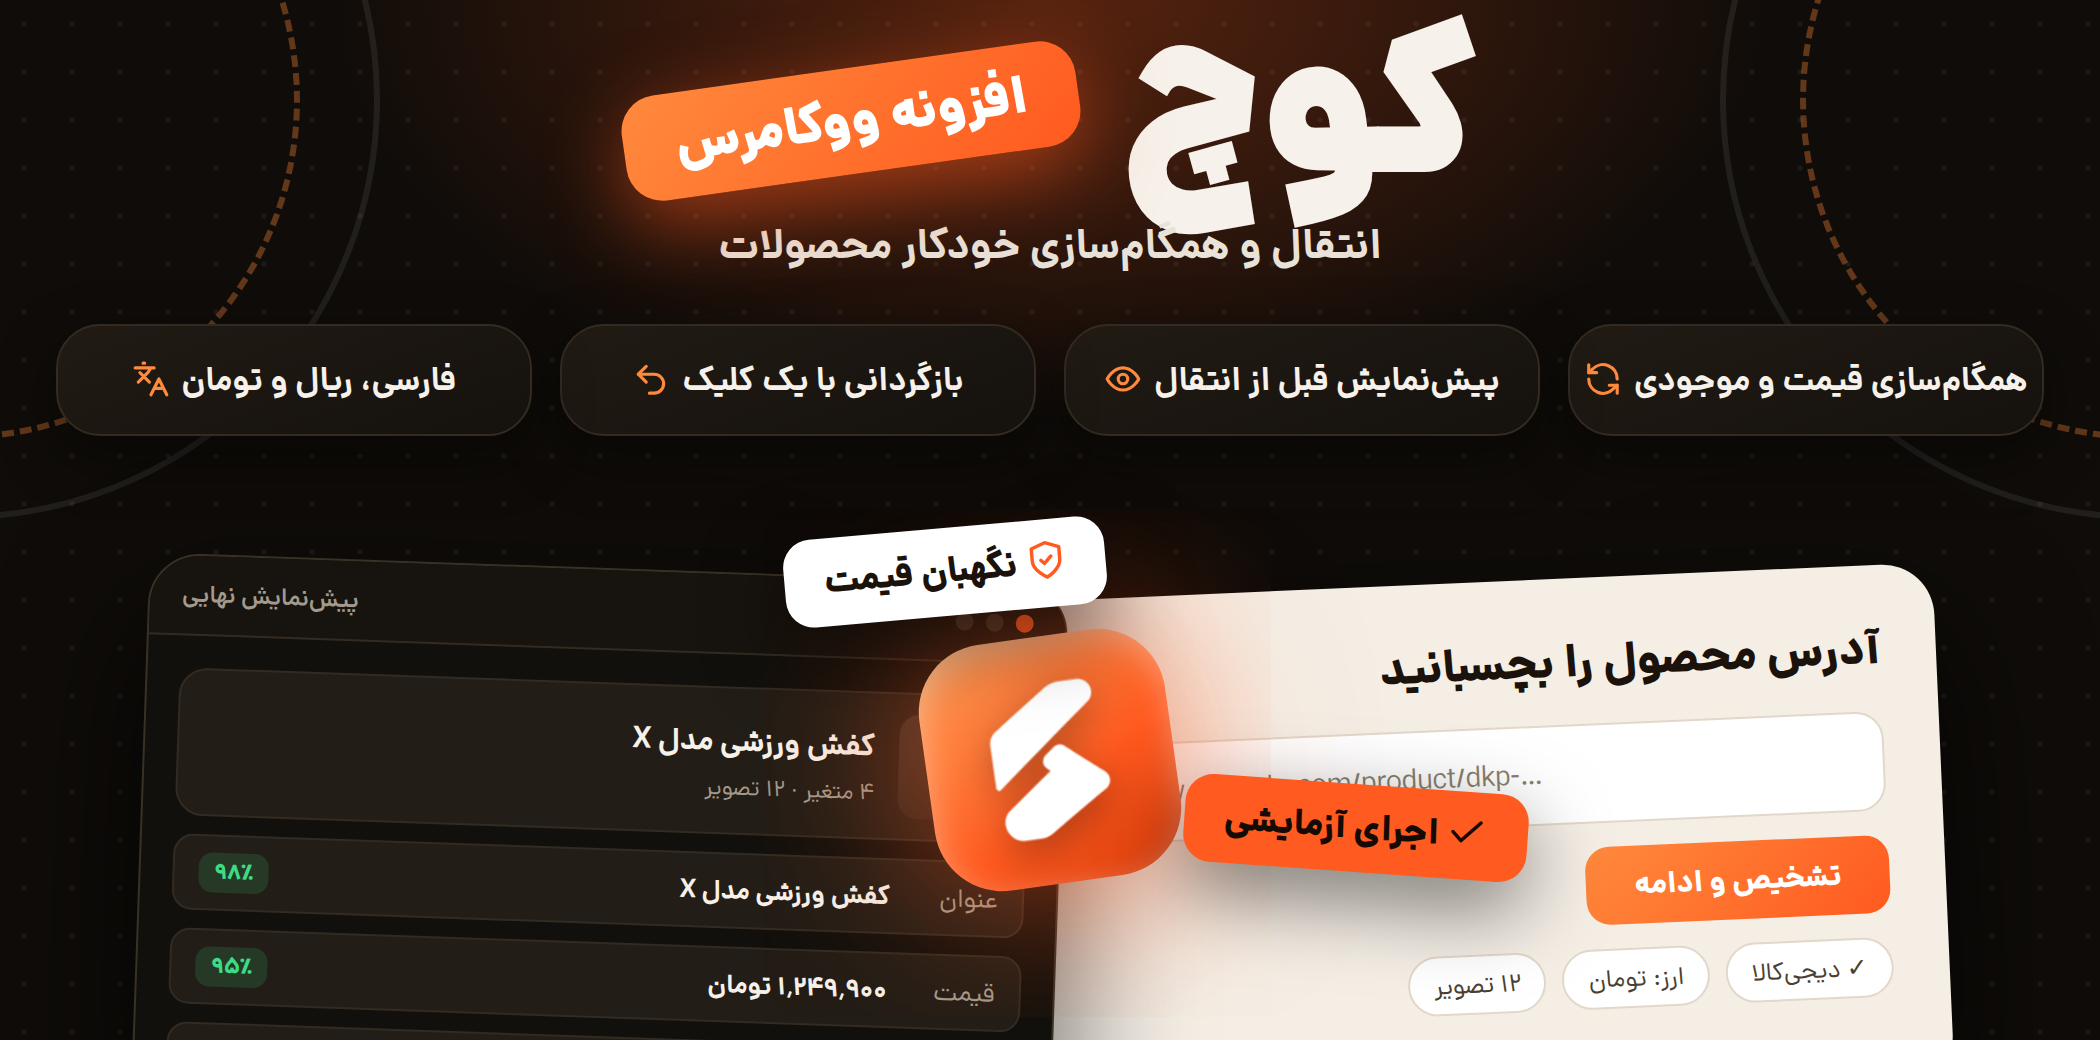
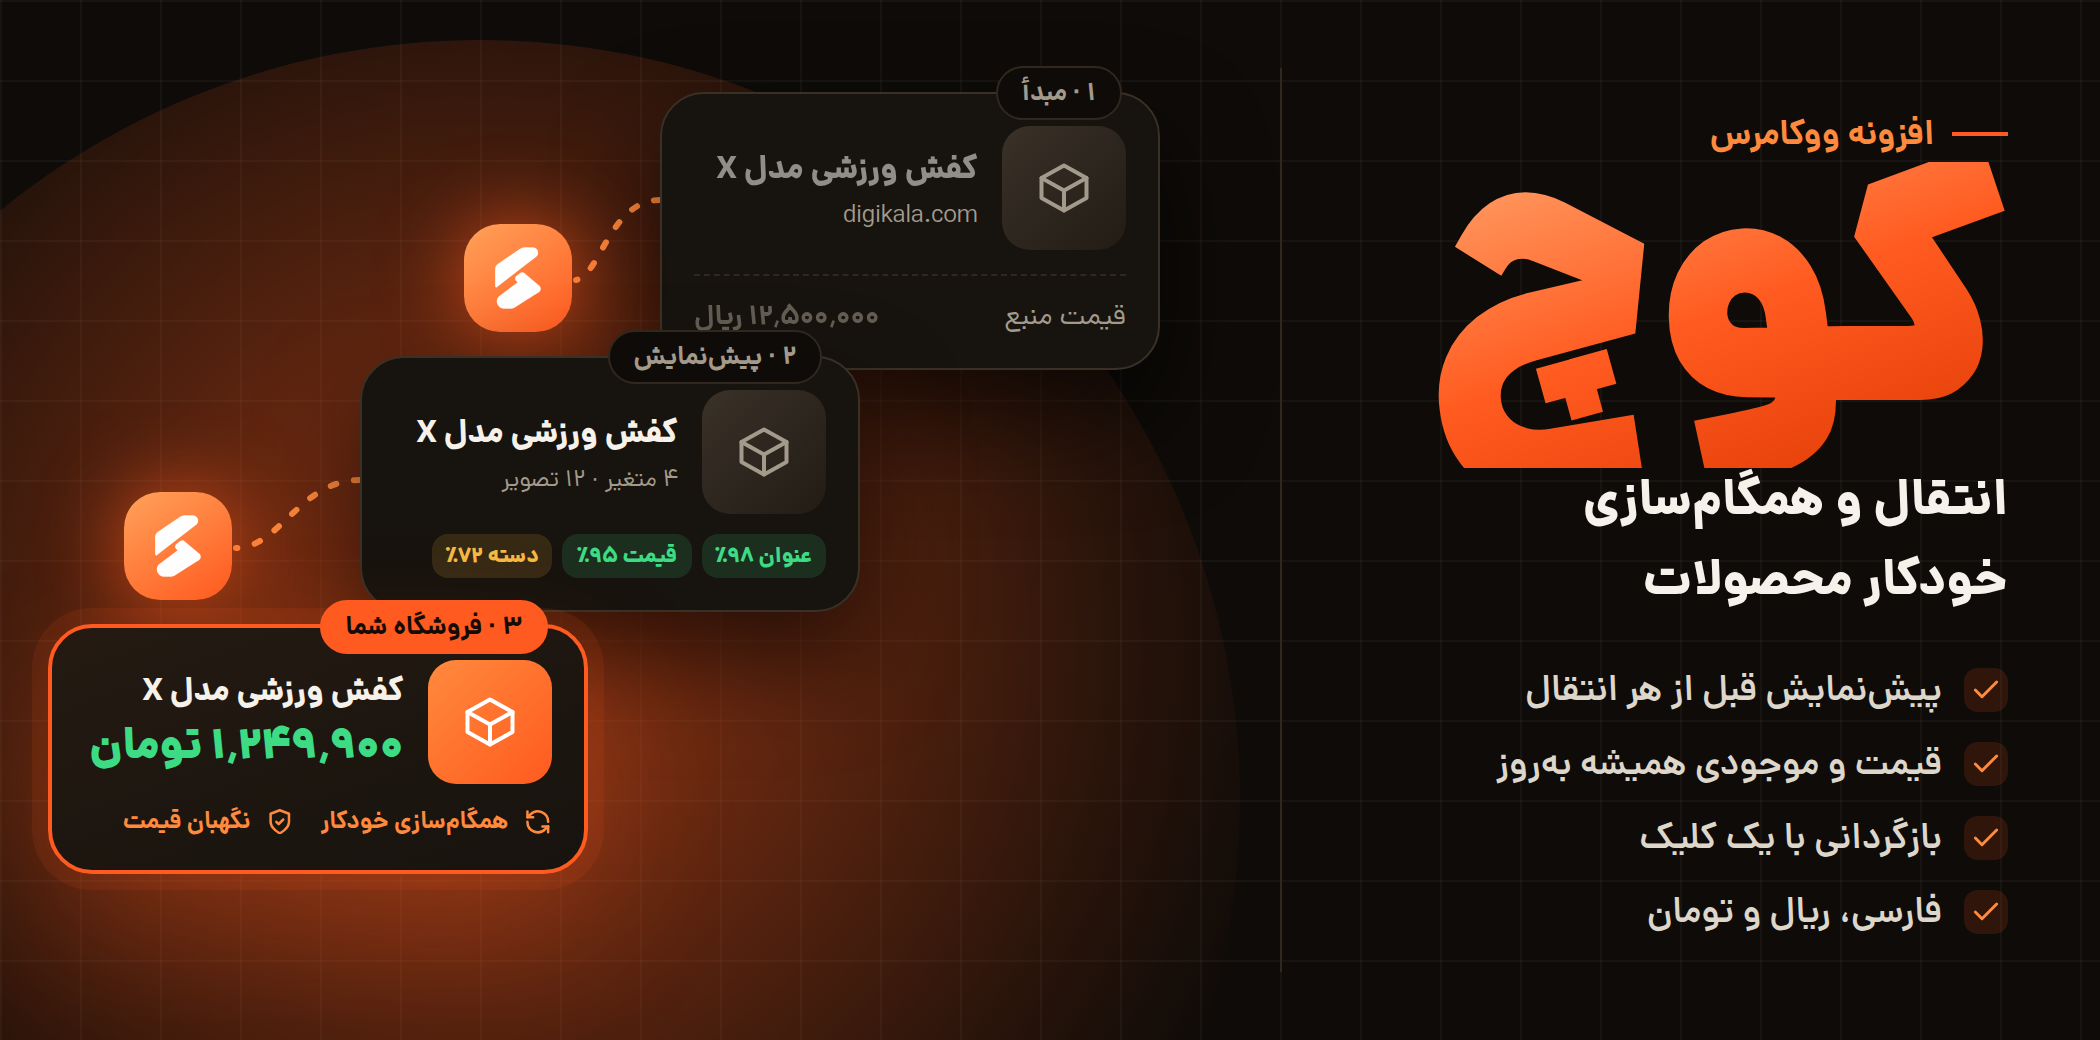
Redesign Kooch thumbnail with a distinct migration-steps composition
Claude-Session: https://claude.ai/code/session_01HjGiyHhZHcoV6ExRpRRqKD

diff --git a/kooch-showcase/thumbnail.html b/kooch-showcase/thumbnail.html
@@ -1,75 +1,56 @@
 <!doctype html><html lang="fa" dir="rtl"><head><meta charset="utf-8"><title>کوچ | تامنیل</title>
 <style>
 @font-face{font-family:Dana;src:url(DanaVF.ttf);font-weight:100 1000}
-:root{--o:#ff5a1f;--o2:#ff8a3d;--bg:#0f0c09;--card:#191510;--card2:#221d16;--line:#332b21;--tx:#f6f1ea;--mu:#a39a8c;--ok:#3ddc84}
+:root{--o:#ff5a1f;--o2:#ff8a3d;--bg:#0e0b08;--line:#30281f;--tx:#f6f1ea;--mu:#a39a8c;--ok:#3ddc84}
 *{box-sizing:border-box;margin:0;padding:0}
 body{background:#000;font-family:Dana,Tahoma,sans-serif;color:var(--tx)}
-.i{width:1.15em;height:1.15em;vertical-align:-.22em;fill:none;stroke:currentColor;stroke-width:2;stroke-linecap:round;stroke-linejoin:round}
+.i{width:1.15em;height:1.15em;vertical-align:-.22em;fill:none;stroke:currentColor;stroke-width:2.2;stroke-linecap:round;stroke-linejoin:round}
 .t{width:1050px;height:520px;position:relative;overflow:hidden;background:
- radial-gradient(520px 300px at 50% 0,rgba(255,90,31,.30),transparent 70%),
- radial-gradient(rgba(255,255,255,.06) 1.2px,transparent 1.4px) 0 0/24px 24px,var(--bg)}
-/* side route arcs */
-.arc{position:absolute;top:-120px;width:340px;height:340px;border-radius:50%;border:3px dashed rgba(255,138,61,.35)}
-.arc.l{left:-190px}.arc.r{right:-190px}
-.arc.l2{left:-230px;top:-160px;width:420px;height:420px;border-color:rgba(255,255,255,.08);border-style:solid}
-.arc.r2{right:-230px;top:-160px;width:420px;height:420px;border-color:rgba(255,255,255,.08);border-style:solid}
-.head{position:absolute;top:14px;left:0;right:0;text-align:center}
-.title{display:inline-flex;align-items:center;gap:20px;direction:rtl}
-.title h1{font-size:92px;font-weight:950;line-height:1;color:var(--tx);letter-spacing:-2px}
-.badge{background:linear-gradient(135deg,var(--o2),var(--o));color:#fff;font-weight:900;font-size:26px;padding:8px 26px;border-radius:18px;transform:rotate(-8deg);box-shadow:0 12px 40px rgba(255,90,31,.55)}
-.sub{margin-top:2px;font-size:21px;font-weight:700;color:#e8e2d9}
-.pills{position:absolute;top:162px;left:28px;right:28px;display:flex;gap:14px;direction:rtl}
-.pill{flex:1;background:linear-gradient(160deg,#211b14,#15110d);border:1px solid var(--line);border-radius:22px;padding:15px 6px;text-align:center;white-space:nowrap;font-size:16.5px;font-weight:700;position:relative;box-shadow:0 10px 30px rgba(0,0,0,.4)}
-
-.pill .i{color:var(--o2);margin-inline-start:6px}
-/* panels */
-.p{position:absolute;bottom:-34px;border-radius:26px;overflow:hidden;box-shadow:0 30px 70px rgba(0,0,0,.65)}
-.light{right:78px;width:500px;height:262px;background:#f4eee5;color:#1a120b;transform:rotate(-2.5deg);padding:26px 28px}
-.light h3{font-size:23px;font-weight:800;margin-bottom:14px}
-.in{background:#fff;border:1px solid #e2d8c9;border-radius:14px;padding:14px 16px;color:#8a7f70;font-size:14px;direction:ltr;text-align:left}
-.cta{display:inline-block;margin-top:12px;background:linear-gradient(135deg,var(--o2),var(--o));color:#fff;font-weight:800;padding:9px 24px;border-radius:12px;font-size:15px}
-.det{display:flex;gap:8px;margin-top:12px;direction:rtl}
-.det span{background:#fff;border:1px solid #e2d8c9;border-radius:99px;padding:5px 12px;font-size:12.5px;color:#4a3f31}
-.dark{left:70px;width:460px;height:270px;background:#12100c;border:1px solid #3a3126;transform:rotate(2deg)}
-.dark .bar{display:flex;gap:6px;align-items:center;padding:11px 16px;background:#17130e;border-bottom:1px solid var(--line);font-size:12px;color:var(--mu)}
-.dark .bar i{width:9px;height:9px;border-radius:50%;background:#3a3126}.dark .bar i:first-child{background:var(--o)}.dark .bar b{margin-inline-start:auto;font-weight:600}
-.dark .b{padding:16px;display:flex;flex-direction:column;gap:9px}
-.prod{display:flex;gap:12px;align-items:center;background:var(--card2);border:1px solid var(--line);border-radius:14px;padding:10px 12px}
-.prod .im{width:52px;height:52px;border-radius:10px;background:linear-gradient(135deg,#3a3128,#221c15);display:grid;place-items:center;color:var(--mu)}
-.prod .im .i{width:26px;height:26px}
-.fld{display:flex;align-items:center;gap:10px;background:var(--card2);border:1px solid var(--line);border-radius:10px;padding:8px 12px;font-size:13px}
-.fld .l{color:var(--mu);width:44px}.fld .v{flex:1;font-weight:700}
-.cf{font-size:11px;font-weight:800;padding:2px 8px;border-radius:7px;background:rgba(61,220,132,.15);color:var(--ok)}
-/* center icon */
-.core{position:absolute;left:50%;bottom:78px;width:124px;height:124px;border-radius:34px;background:linear-gradient(145deg,#ffa25a,var(--o) 60%,#d93a08);display:grid;place-items:center;box-shadow:0 0 90px rgba(255,90,31,.7),inset 0 4px 16px rgba(255,255,255,.35);z-index:5;transform:translateX(-50%) rotate(-8deg)}
-.core img{width:80px;filter:brightness(0) invert(1) drop-shadow(0 6px 10px rgba(0,0,0,.3))}
-.chip{position:absolute;background:#fff;color:#1a120b;font-weight:800;font-size:18px;padding:9px 20px;border-radius:14px;box-shadow:0 14px 40px rgba(0,0,0,.5);z-index:6}
-.chip .i{color:var(--o)}
-.c1{left:392px;bottom:212px;transform:rotate(-5deg)}
-.c2{left:592px;bottom:84px;transform:rotate(4deg);background:var(--o);color:#150b04}.c2 .i{color:#150b04}
-.arrow{position:absolute;bottom:150px;height:0;border-top:3px dashed rgba(255,138,61,.9);z-index:4}
+ linear-gradient(rgba(255,255,255,.035) 1px,transparent 1px) 0 0/40px 40px,
+ linear-gradient(90deg,rgba(255,255,255,.035) 1px,transparent 1px) 0 0/40px 40px,var(--bg)}
+.sun{position:absolute;left:-140px;bottom:-260px;width:760px;height:760px;border-radius:50%;background:radial-gradient(circle at 50% 40%,rgba(255,90,31,.55),rgba(255,90,31,.10) 55%,transparent 70%)}
+.side{position:absolute;right:0;top:0;bottom:0;width:410px;padding:52px 46px 0 0;border-right:0}
+.side::before{content:"";position:absolute;left:0;top:34px;bottom:34px;border-left:1px solid var(--line)}
+.lab{display:inline-flex;align-items:center;gap:9px;font-size:17px;font-weight:700;color:var(--o2);letter-spacing:.3px}
+.lab::before{content:"";width:28px;height:2px;background:var(--o)}
+h1{font-size:150px;font-weight:950;line-height:1.02;margin-top:2px;background:linear-gradient(160deg,#ffb27a,var(--o) 55%,#e03a05);-webkit-background-clip:text;color:transparent;letter-spacing:-3px}
+.sub{font-size:25px;font-weight:800;margin-top:-4px;line-height:1.6}
+ul{list-style:none;margin-top:22px;display:flex;flex-direction:column;gap:11px}
+li{font-size:18px;font-weight:600;color:#ddd6cb;display:flex;align-items:center;gap:11px}
+li .i{color:var(--o2);width:22px;height:22px;background:rgba(255,90,31,.14);border-radius:7px;padding:3px}
+/* route */
+.card{position:absolute;width:250px;border-radius:22px;padding:16px;background:#17130e;border:1px solid #3a3126;box-shadow:0 24px 50px rgba(0,0,0,.6)}
+.step{position:absolute;top:-14px;right:18px;background:#0e0b08;border:1px solid var(--line);color:var(--mu);font-size:13px;font-weight:700;padding:3px 12px;border-radius:99px}
+.row{display:flex;gap:12px;align-items:center}
+.im{width:62px;height:62px;border-radius:14px;flex:none;display:grid;place-items:center;background:linear-gradient(135deg,#3a3128,#221c15);color:var(--mu)}
+.im .i{width:30px;height:30px;stroke-width:1.6}
+.nm{font-size:16px;font-weight:800}.mt{font-size:12px;color:var(--mu);margin-top:3px}
+.pr{margin-top:12px;display:flex;justify-content:space-between;align-items:center;font-size:14px;color:var(--mu);border-top:1px dashed var(--line);padding-top:10px}
+.a{right:392px;top:44px;left:auto}
+.a{left:auto}
+.cA{left:330px;top:46px}.cB{left:180px;top:178px}.cC{left:24px;top:312px;width:270px;background:linear-gradient(160deg,#241a12,#17130e);border:2px solid var(--o);box-shadow:0 0 0 8px rgba(255,90,31,.10),0 30px 70px rgba(255,90,31,.25)}
+.cA .nm,.cA .pr b{opacity:.55}
+.cf{display:flex;gap:5px;margin-top:10px;white-space:nowrap}
+.cf span{font-size:11px;font-weight:800;padding:3px 7px;border-radius:8px;background:rgba(61,220,132,.14);color:var(--ok)}
+.cf span.m{background:rgba(245,185,66,.14);color:#f5b942}
+.price{font-size:22px;font-weight:900;color:var(--ok)}
+.ok{display:flex;align-items:center;gap:8px;margin-top:10px;white-space:nowrap;font-size:12px;font-weight:700;color:var(--o2)}
+svg.route{position:absolute;left:0;top:0;width:640px;height:520px;pointer-events:none}
+.node{position:absolute;width:54px;height:54px;border-radius:18px;background:linear-gradient(145deg,#ffa25a,var(--o));display:grid;place-items:center;box-shadow:0 0 40px rgba(255,90,31,.7)}
+.node img{width:32px;filter:brightness(0) invert(1)}
 </style></head><body><svg width="0" height="0" style="position:absolute" aria-hidden="true"><symbol id="i-link" viewBox="0 0 24 24"><path d="M10 13a5 5 0 0 0 7.5.5l3-3a5 5 0 0 0-7-7l-1.7 1.7"/><path d="M14 11a5 5 0 0 0-7.5-.5l-3 3a5 5 0 0 0 7 7l1.7-1.7"/></symbol><symbol id="i-eye" viewBox="0 0 24 24"><path d="M2 12s3.6-7 10-7 10 7 10 7-3.6 7-10 7S2 12 2 12z"/><circle cx="12" cy="12" r="3"/></symbol><symbol id="i-box" viewBox="0 0 24 24"><path d="M21 8 12 3 3 8v8l9 5 9-5z"/><path d="M3 8l9 5 9-5M12 13v8"/></symbol><symbol id="i-globe" viewBox="0 0 24 24"><circle cx="12" cy="12" r="10"/><path d="M2 12h20M12 2a15 15 0 0 1 0 20M12 2a15 15 0 0 0 0 20"/></symbol><symbol id="i-target" viewBox="0 0 24 24"><circle cx="12" cy="12" r="10"/><circle cx="12" cy="12" r="6"/><circle cx="12" cy="12" r="2"/></symbol><symbol id="i-cog" viewBox="0 0 24 24"><circle cx="12" cy="12" r="3"/><path d="M19.4 15a1.7 1.7 0 0 0 .3 1.8l.1.1a2 2 0 1 1-2.8 2.8l-.1-.1a1.7 1.7 0 0 0-1.8-.3 1.7 1.7 0 0 0-1 1.5V21a2 2 0 1 1-4 0v-.1a1.7 1.7 0 0 0-1.1-1.5 1.7 1.7 0 0 0-1.8.3l-.1.1a2 2 0 1 1-2.8-2.8l.1-.1a1.7 1.7 0 0 0 .3-1.8 1.7 1.7 0 0 0-1.5-1H3a2 2 0 1 1 0-4h.1a1.7 1.7 0 0 0 1.5-1.1 1.7 1.7 0 0 0-.3-1.8l-.1-.1a2 2 0 1 1 2.8-2.8l.1.1a1.7 1.7 0 0 0 1.8.3H9a1.7 1.7 0 0 0 1-1.5V3a2 2 0 1 1 4 0v.1a1.7 1.7 0 0 0 1 1.5 1.7 1.7 0 0 0 1.8-.3l.1-.1a2 2 0 1 1 2.8 2.8l-.1.1a1.7 1.7 0 0 0-.3 1.8V9a1.7 1.7 0 0 0 1.5 1H21a2 2 0 1 1 0 4h-.1a1.7 1.7 0 0 0-1.5 1z"/></symbol><symbol id="i-coins" viewBox="0 0 24 24"><circle cx="8" cy="8" r="6"/><path d="M18.1 10.4A6 6 0 1 1 10.4 18.1M7 6h1v4"/></symbol><symbol id="i-shield" viewBox="0 0 24 24"><path d="M12 22s8-4 8-10V5l-8-3-8 3v7c0 6 8 10 8 10z"/><path d="m9 12 2 2 4-4"/></symbol><symbol id="i-refresh" viewBox="0 0 24 24"><path d="M21 12a9 9 0 0 0-15.5-6.3L3 8"/><path d="M3 3v5h5"/><path d="M3 12a9 9 0 0 0 15.5 6.3L21 16"/><path d="M16 16h5v5"/></symbol><symbol id="i-lock" viewBox="0 0 24 24"><rect x="4" y="11" width="16" height="10" rx="2"/><path d="M8 11V7a4 4 0 0 1 8 0v4"/></symbol><symbol id="i-undo" viewBox="0 0 24 24"><path d="M9 14 4 9l5-5"/><path d="M4 9h10a6 6 0 0 1 0 12h-3"/></symbol><symbol id="i-alert" viewBox="0 0 24 24"><path d="M10.3 3.9 1.8 18a2 2 0 0 0 1.7 3h17a2 2 0 0 0 1.7-3L13.7 3.9a2 2 0 0 0-3.4 0z"/><path d="M12 9v4M12 17h.01"/></symbol><symbol id="i-bell" viewBox="0 0 24 24"><path d="M18 8a6 6 0 0 0-12 0c0 7-3 9-3 9h18s-3-2-3-9"/><path d="M13.7 21a2 2 0 0 1-3.4 0"/></symbol><symbol id="i-mail" viewBox="0 0 24 24"><rect x="2" y="4" width="20" height="16" rx="2"/><path d="m22 7-10 6L2 7"/></symbol><symbol id="i-send" viewBox="0 0 24 24"><path d="m22 2-7 20-4-9-9-4z"/><path d="M22 2 11 13"/></symbol><symbol id="i-chat" viewBox="0 0 24 24"><path d="M21 15a2 2 0 0 1-2 2H7l-4 4V5a2 2 0 0 1 2-2h14a2 2 0 0 1 2 2z"/></symbol><symbol id="i-hook" viewBox="0 0 24 24"><circle cx="12" cy="5" r="3"/><path d="M12 8v5a4 4 0 0 0 8 0M20 13h-3"/><circle cx="5" cy="17" r="3"/><path d="M5 14c0-3 3-6 7-6"/></symbol><symbol id="i-spark" viewBox="0 0 24 24"><path d="M12 3l1.9 5.1L19 10l-5.1 1.9L12 17l-1.9-5.1L5 10l5.1-1.9z"/><path d="M19 15l.7 1.8L21.5 17.5l-1.8.7L19 20l-.7-1.8-1.8-.7 1.8-.7z"/></symbol><symbol id="i-check" viewBox="0 0 24 24"><path d="M20 6 9 17l-5-5"/></symbol><symbol id="i-lang" viewBox="0 0 24 24"><path d="m5 8 6 6M4 14l6-6 2-3M2 5h12M7 2h1M22 22l-5-10-5 10M14 18h6"/></symbol></svg>
 
-<div class="t">
- <div class="arc l2"></div><div class="arc r2"></div><div class="arc l"></div><div class="arc r"></div>
- <div class="head"><div class="title"><h1>کوچ</h1><div class="badge">افزونه ووکامرس</div></div>
- <div class="sub">انتقال و همگامسازی خودکار محصولات</div></div>
- <div class="pills">
-  <div class="pill">همگامسازی قیمت و موجودی<svg class="i"><use href="#i-refresh"/></svg></div>
-  <div class="pill">پیشنمایش قبل از انتقال<svg class="i"><use href="#i-eye"/></svg></div>
-  <div class="pill">بازگردانی با یک کلیک<svg class="i"><use href="#i-undo"/></svg></div>
-  <div class="pill">فارسی، ریال و تومان<svg class="i"><use href="#i-lang"/></svg></div>
- </div>
- <div class="p light"><h3>آدرس محصول را بچسبانید</h3>
-  <div class="in">https://www.digikala.com/product/dkp-…</div>
-  <div class="cta">تشخیص و ادامه</div>
-  <div class="det"><span>✓ دیجیکالا</span><span>ارز: تومان</span><span>۱۲ تصویر</span></div></div>
- <div class="p dark"><div class="bar"><i></i><i></i><i></i><b>پیشنمایش نهایی</b></div><div class="b">
-  <div class="prod"><div class="im"><svg class="i"><use href="#i-box"/></svg></div><div style="flex:1"><b style="font-size:15px">کفش ورزشی مدل X</b><div style="font-size:11.5px;color:var(--mu);margin-top:3px">۴ متغیر · ۱۲ تصویر</div></div></div>
-  <div class="fld"><span class="l">عنوان</span><span class="v">کفش ورزشی مدل X</span><span class="cf">۹۸٪</span></div>
-  <div class="fld"><span class="l">قیمت</span><span class="v">۱٬۲۴۹٬۹۰۰ تومان</span><span class="cf">۹۵٪</span></div>
-  <div class="fld"><span class="l">دسته</span><span class="v">کفش › مردانه</span><span class="cf">۹۱٪</span></div></div></div>
- <div class="core"><img src="kooch-icon.png" alt=""></div>
- <div class="chip c1"><svg class="i"><use href="#i-shield"/></svg> نگهبان قیمت</div>
- <div class="chip c2"><svg class="i"><use href="#i-check"/></svg> اجرای آزمایشی</div>
+<div class="t"><div class="sun"></div>
+<svg class="route" viewBox="0 0 640 520"><path d="M330 100 C 305 100, 300 138, 288 140" fill="none" stroke="#ff8a3d" stroke-width="3" stroke-dasharray="3 9" stroke-linecap="round"/><path d="M180 240 C 150 240, 140 274, 118 274" fill="none" stroke="#ff8a3d" stroke-width="3" stroke-dasharray="3 9" stroke-linecap="round"/></svg>
+<div class="side">
+ <div class="lab">افزونه ووکامرس</div>
+ <h1>کوچ</h1>
+ <div class="sub">انتقال و همگامسازی<br>خودکار محصولات</div>
+ <ul><li><svg class="i"><use href="#i-check"/></svg>پیشنمایش قبل از هر انتقال</li><li><svg class="i"><use href="#i-check"/></svg>قیمت و موجودی همیشه بهروز</li><li><svg class="i"><use href="#i-check"/></svg>بازگردانی با یک کلیک</li><li><svg class="i"><use href="#i-check"/></svg>فارسی، ریال و تومان</li></ul>
+</div>
+<div class="card cA"><div class="step">۱ · مبدأ</div><div class="row"><div class="im"><svg class="i"><use href="#i-box"/></svg></div><div><div class="nm">کفش ورزشی مدل X</div><div class="mt">digikala.com</div></div></div><div class="pr"><span>قیمت منبع</span><b>۱۲٬۵۰۰٬۰۰۰ ریال</b></div></div>
+<div class="node" style="left:232px;top:112px"><img src="kooch-icon.png" alt=""></div>
+<div class="card cB"><div class="step">۲ · پیشنمایش</div><div class="row"><div class="im"><svg class="i"><use href="#i-box"/></svg></div><div><div class="nm">کفش ورزشی مدل X</div><div class="mt">۴ متغیر · ۱۲ تصویر</div></div></div><div class="cf"><span>عنوان ۹۸٪</span><span>قیمت ۹۵٪</span><span class="m">دسته ۷۲٪</span></div></div>
+<div class="node" style="left:62px;top:246px"><img src="kooch-icon.png" alt=""></div>
+<div class="card cC"><div class="step" style="background:var(--o);border-color:var(--o);color:#150b04">۳ · فروشگاه شما</div><div class="row"><div class="im" style="background:linear-gradient(135deg,var(--o2),var(--o));color:#fff"><svg class="i"><use href="#i-box"/></svg></div><div><div class="nm">کفش ورزشی مدل X</div><div class="price">۱٬۲۴۹٬۹۰۰ تومان</div></div></div><div class="ok"><svg class="i"><use href="#i-refresh"/></svg> همگامسازی خودکار &nbsp;<svg class="i"><use href="#i-shield"/></svg> نگهبان قیمت</div></div>
 </div></body></html>
